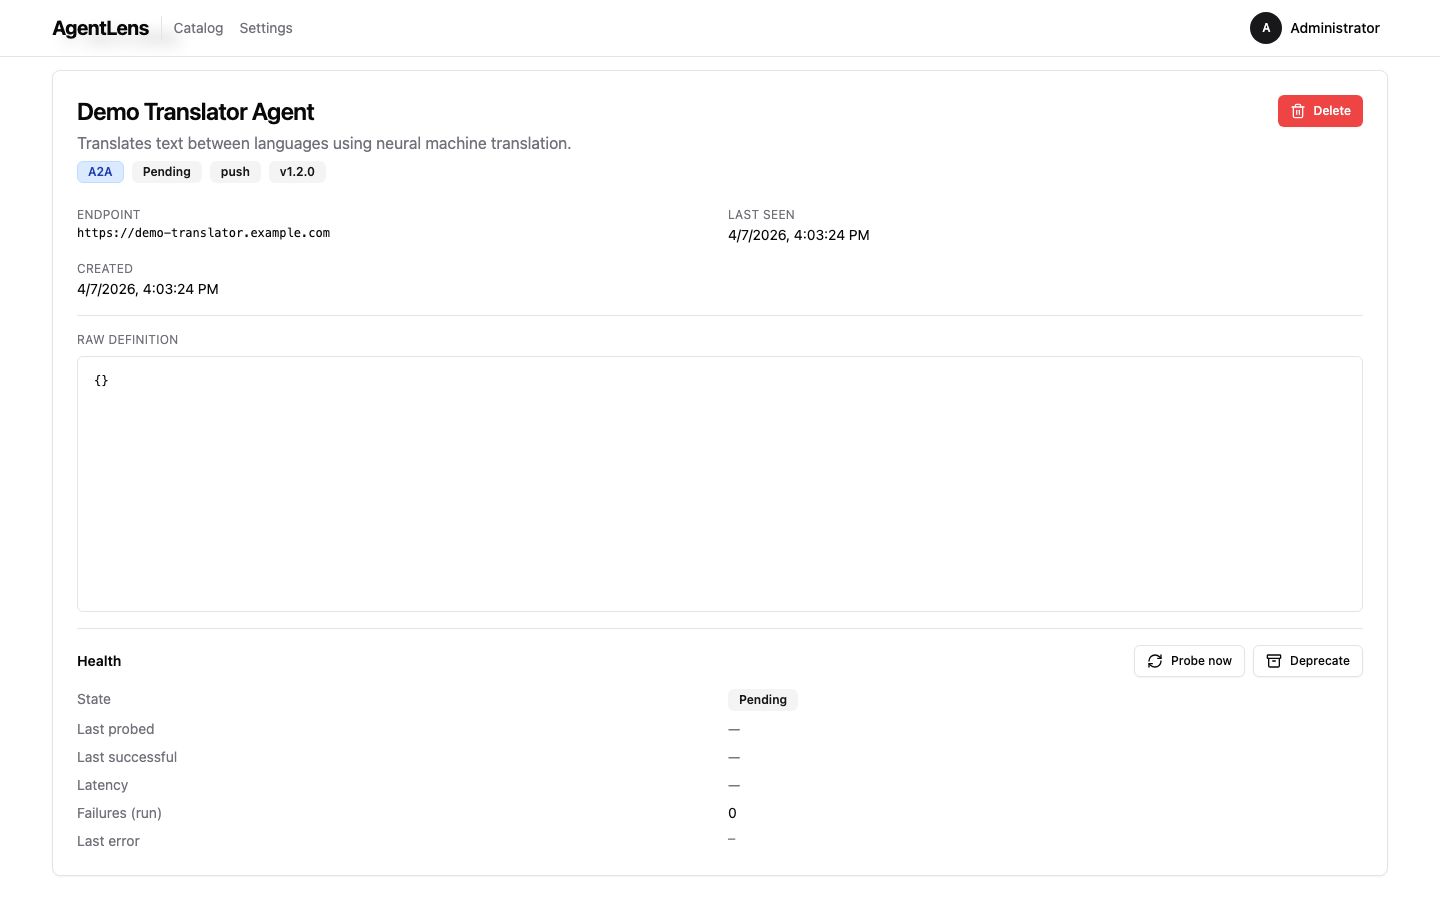
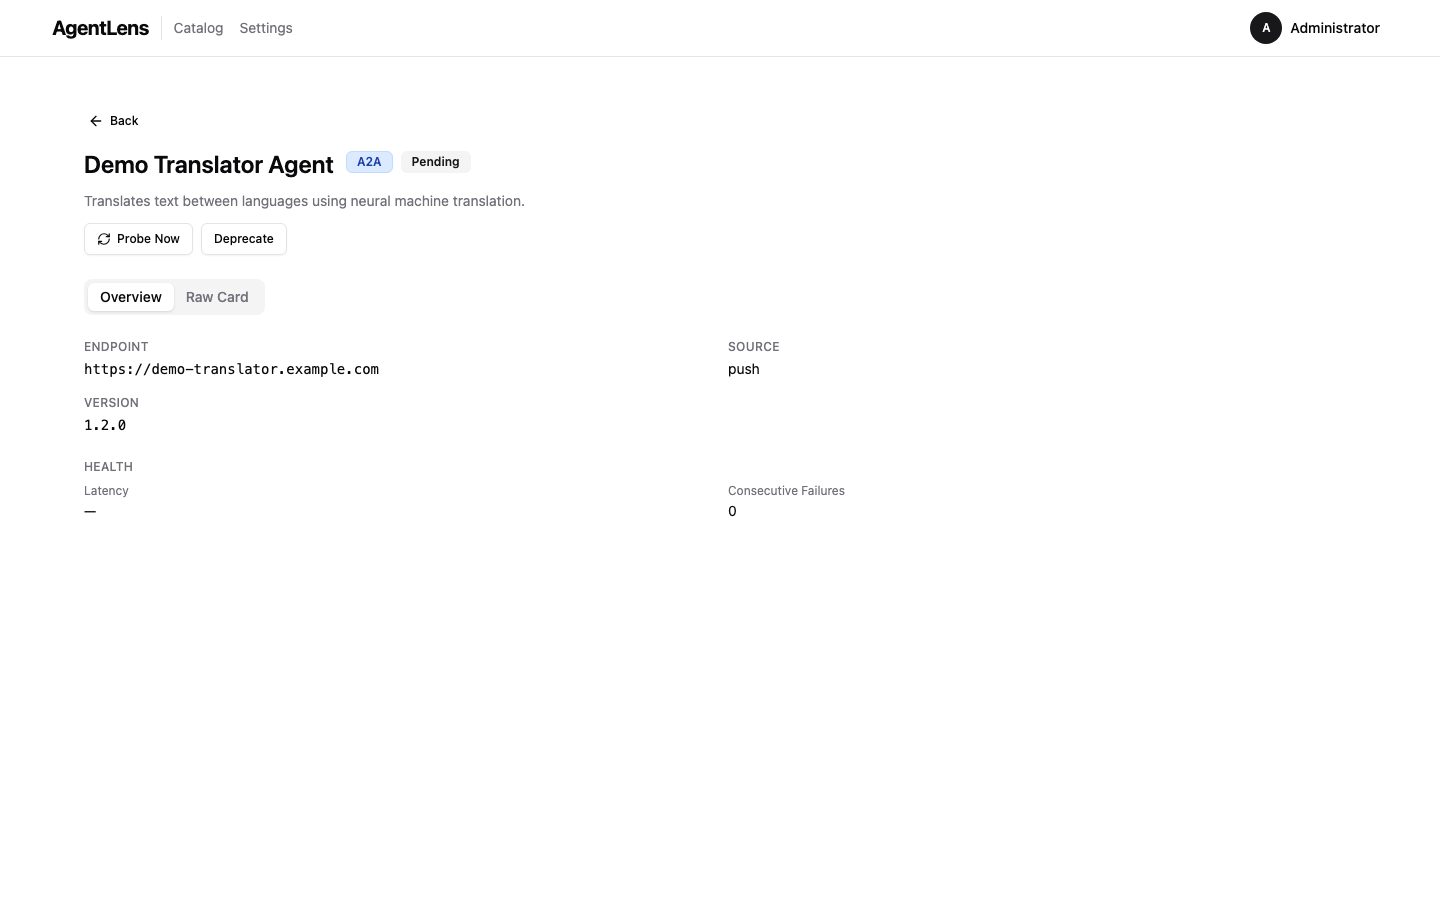
fix(e2e): fix health-deprecate-dialog and health-deprecated-badge tests; add new catalog screenshot files

diff --git a/e2e/tests/docs-screenshots.spec.ts b/e2e/tests/docs-screenshots.spec.ts
@@ -597,42 +597,38 @@ test.describe('Documentation Screenshots', () => {
   });
 
   test('health-deprecate-dialog', async ({ page }) => {
-    // Shows the confirmation dialog before deprecating an entry.
+    // Shows the Deprecate button in the detail page header (new UI — no confirmation
+    // dialog; clicking directly applies the lifecycle change).
     await page.setViewportSize(VIEWPORT);
     await page.emulateMedia({ reducedMotion: 'reduce' });
     await loginViaUI(page);
     await page.goto(`/catalog/${a2aEntryId}`);
     await page.waitForLoadState('networkidle');
-    await page.evaluate(() => {
-      const headings = Array.from(document.querySelectorAll('h3'));
-      const healthHeading = headings.find(h => /health/i.test(h.textContent ?? ''));
-      healthHeading?.scrollIntoView({ behavior: 'instant', block: 'center' });
-    });
-    await page.getByRole('button', { name: /deprecate/i }).click();
-    await page.waitForSelector('[role="alertdialog"]', { timeout: ERROR_DISPLAY_TIMEOUT_MS });
+    // Hover the Deprecate button to show the focused/hover state for documentation.
+    await page.getByRole('button', { name: /deprecate/i }).hover();
     await page.screenshot({ path: `${DOCS_IMAGES}/health-deprecate-dialog.png`, fullPage: false });
-    // Close dialog without confirming so the entry stays intact for other tests
-    await page.getByRole('button', { name: /cancel/i }).click();
   });
 
   test('health-deprecated-badge', async ({ page, request }) => {
     // Shows an entry with the Deprecated badge.
     await page.setViewportSize(VIEWPORT);
     await page.emulateMedia({ reducedMotion: 'reduce' });
-    // Deprecate the MCP entry via API for this screenshot
-    await request.patch(`${BASE}/api/v1/catalog/${mcpEntryId}/lifecycle`, {
-      headers: authHeader(token),
+    // Get a fresh token for the API calls in this test — avoids stale-token issues on retry.
+    const freshToken = await loginViaAPI(request);
+    // Deprecate the A2A entry via API for this screenshot (MCP entry may be unavailable on retry).
+    await request.patch(`${BASE}/api/v1/catalog/${a2aEntryId}/lifecycle`, {
+      headers: authHeader(freshToken),
       data: { state: 'deprecated' },
     });
     await loginViaUI(page);
-    await page.goto(`/catalog/${mcpEntryId}`);
+    await page.goto(`/catalog/${a2aEntryId}`);
     await page.waitForLoadState('networkidle');
     await page.screenshot({ path: `${DOCS_IMAGES}/health-deprecated-badge.png`, fullPage: false });
-    // Restore to active
-    await request.patch(`${BASE}/api/v1/catalog/${mcpEntryId}/lifecycle`, {
-      headers: authHeader(token),
-      data: { state: 'active' },
-    }).catch(ignoreCleanupError('un-deprecate mcp entry'));
+    // Restore to registered state so subsequent tests are not affected.
+    await request.patch(`${BASE}/api/v1/catalog/${a2aEntryId}/lifecycle`, {
+      headers: authHeader(freshToken),
+      data: { state: 'registered' },
+    }).catch(ignoreCleanupError('un-deprecate a2a entry'));
   });
 
   // ───────── User dropdown ─────────
